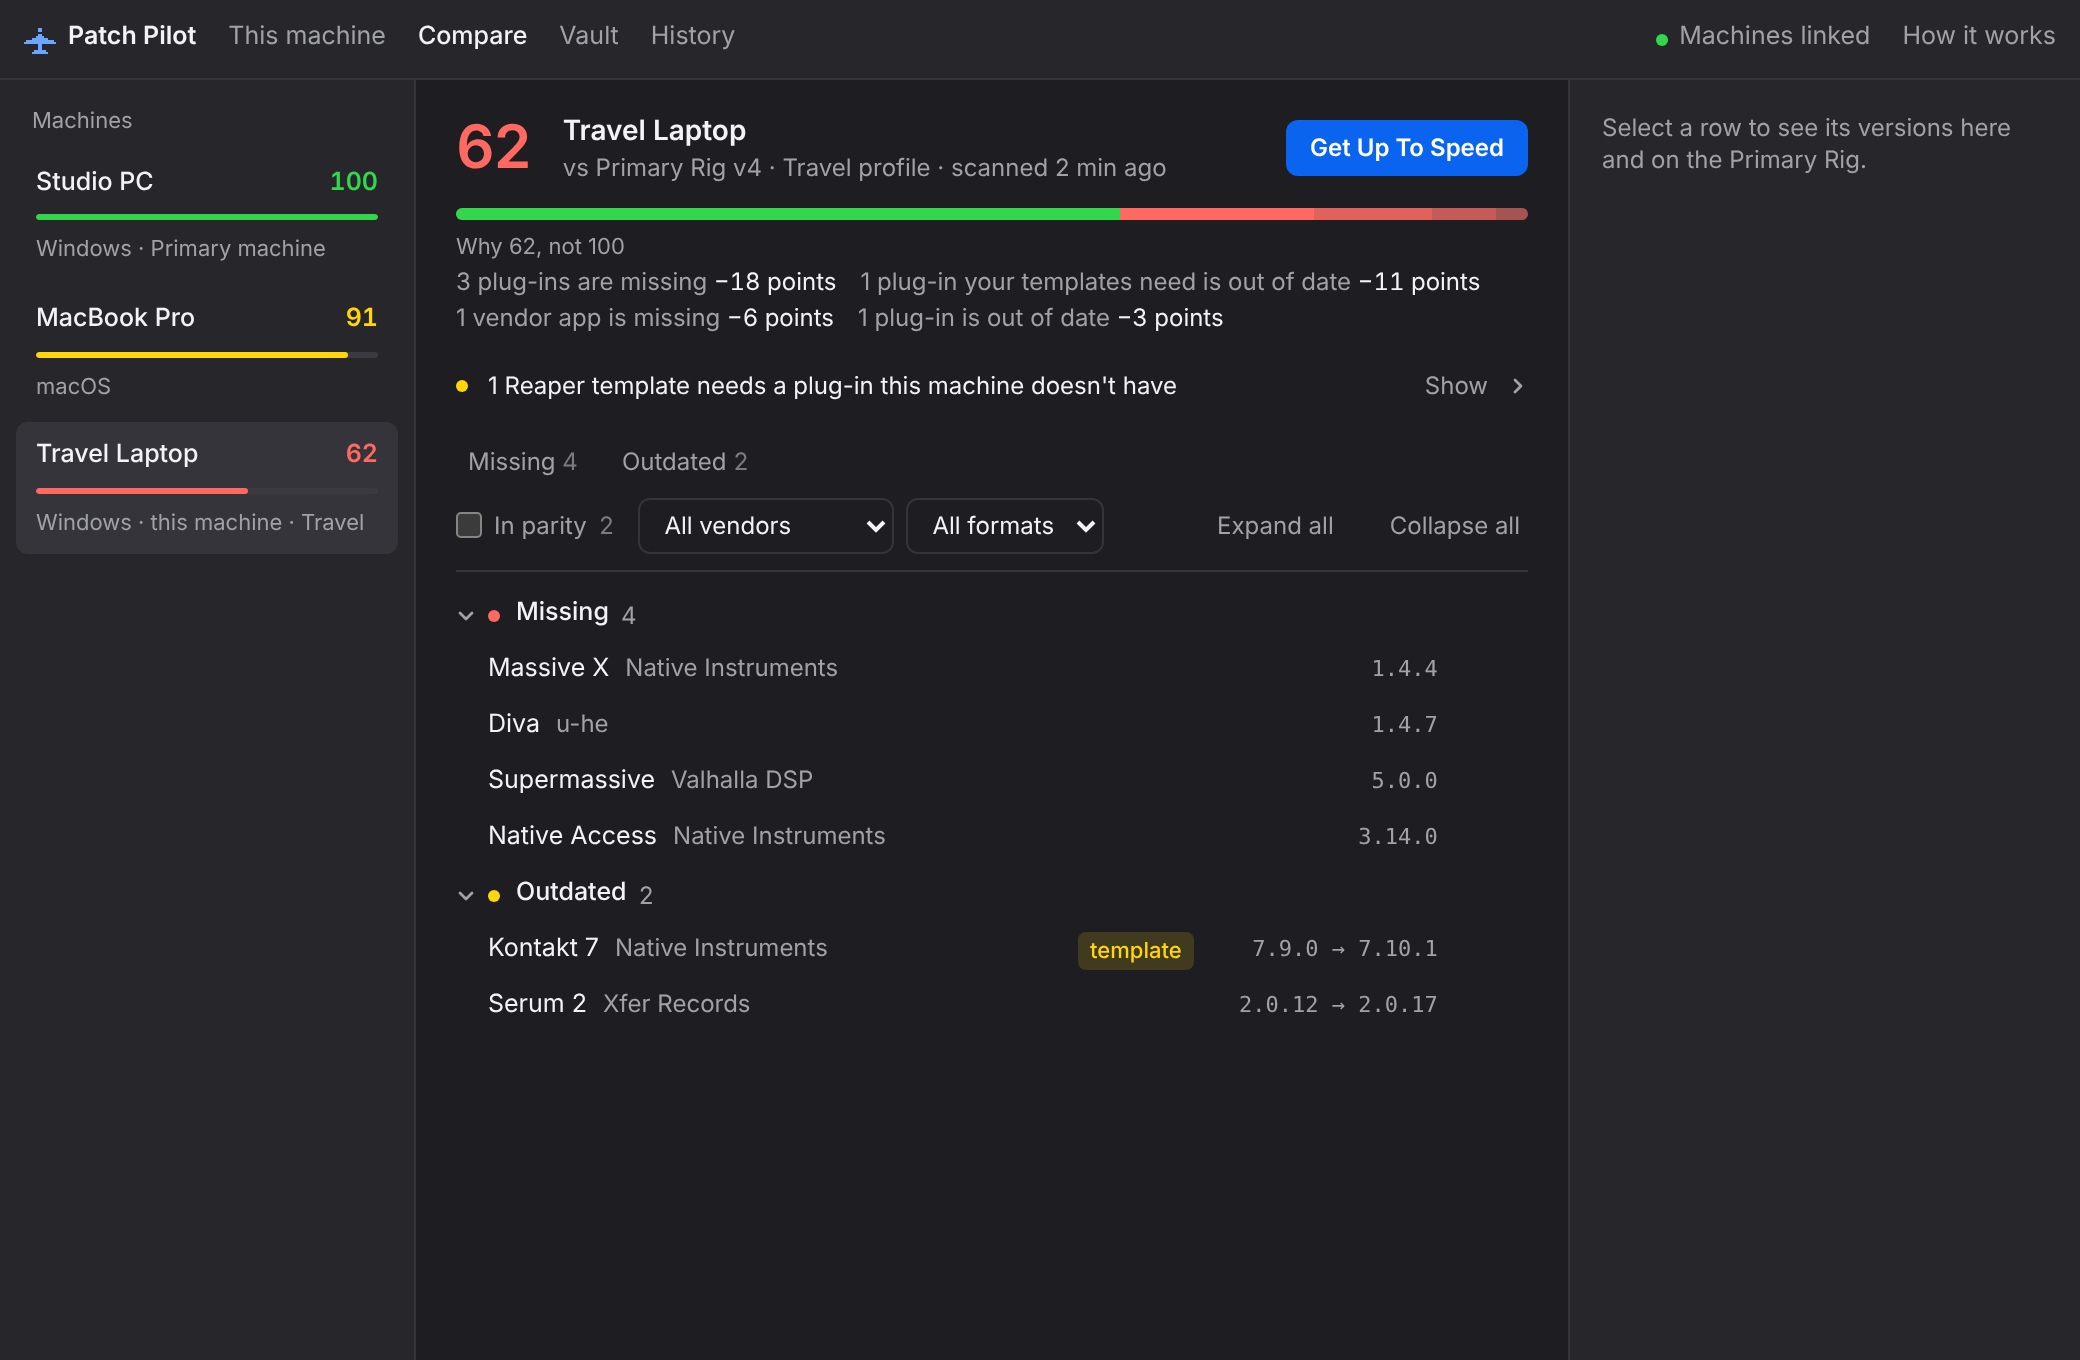
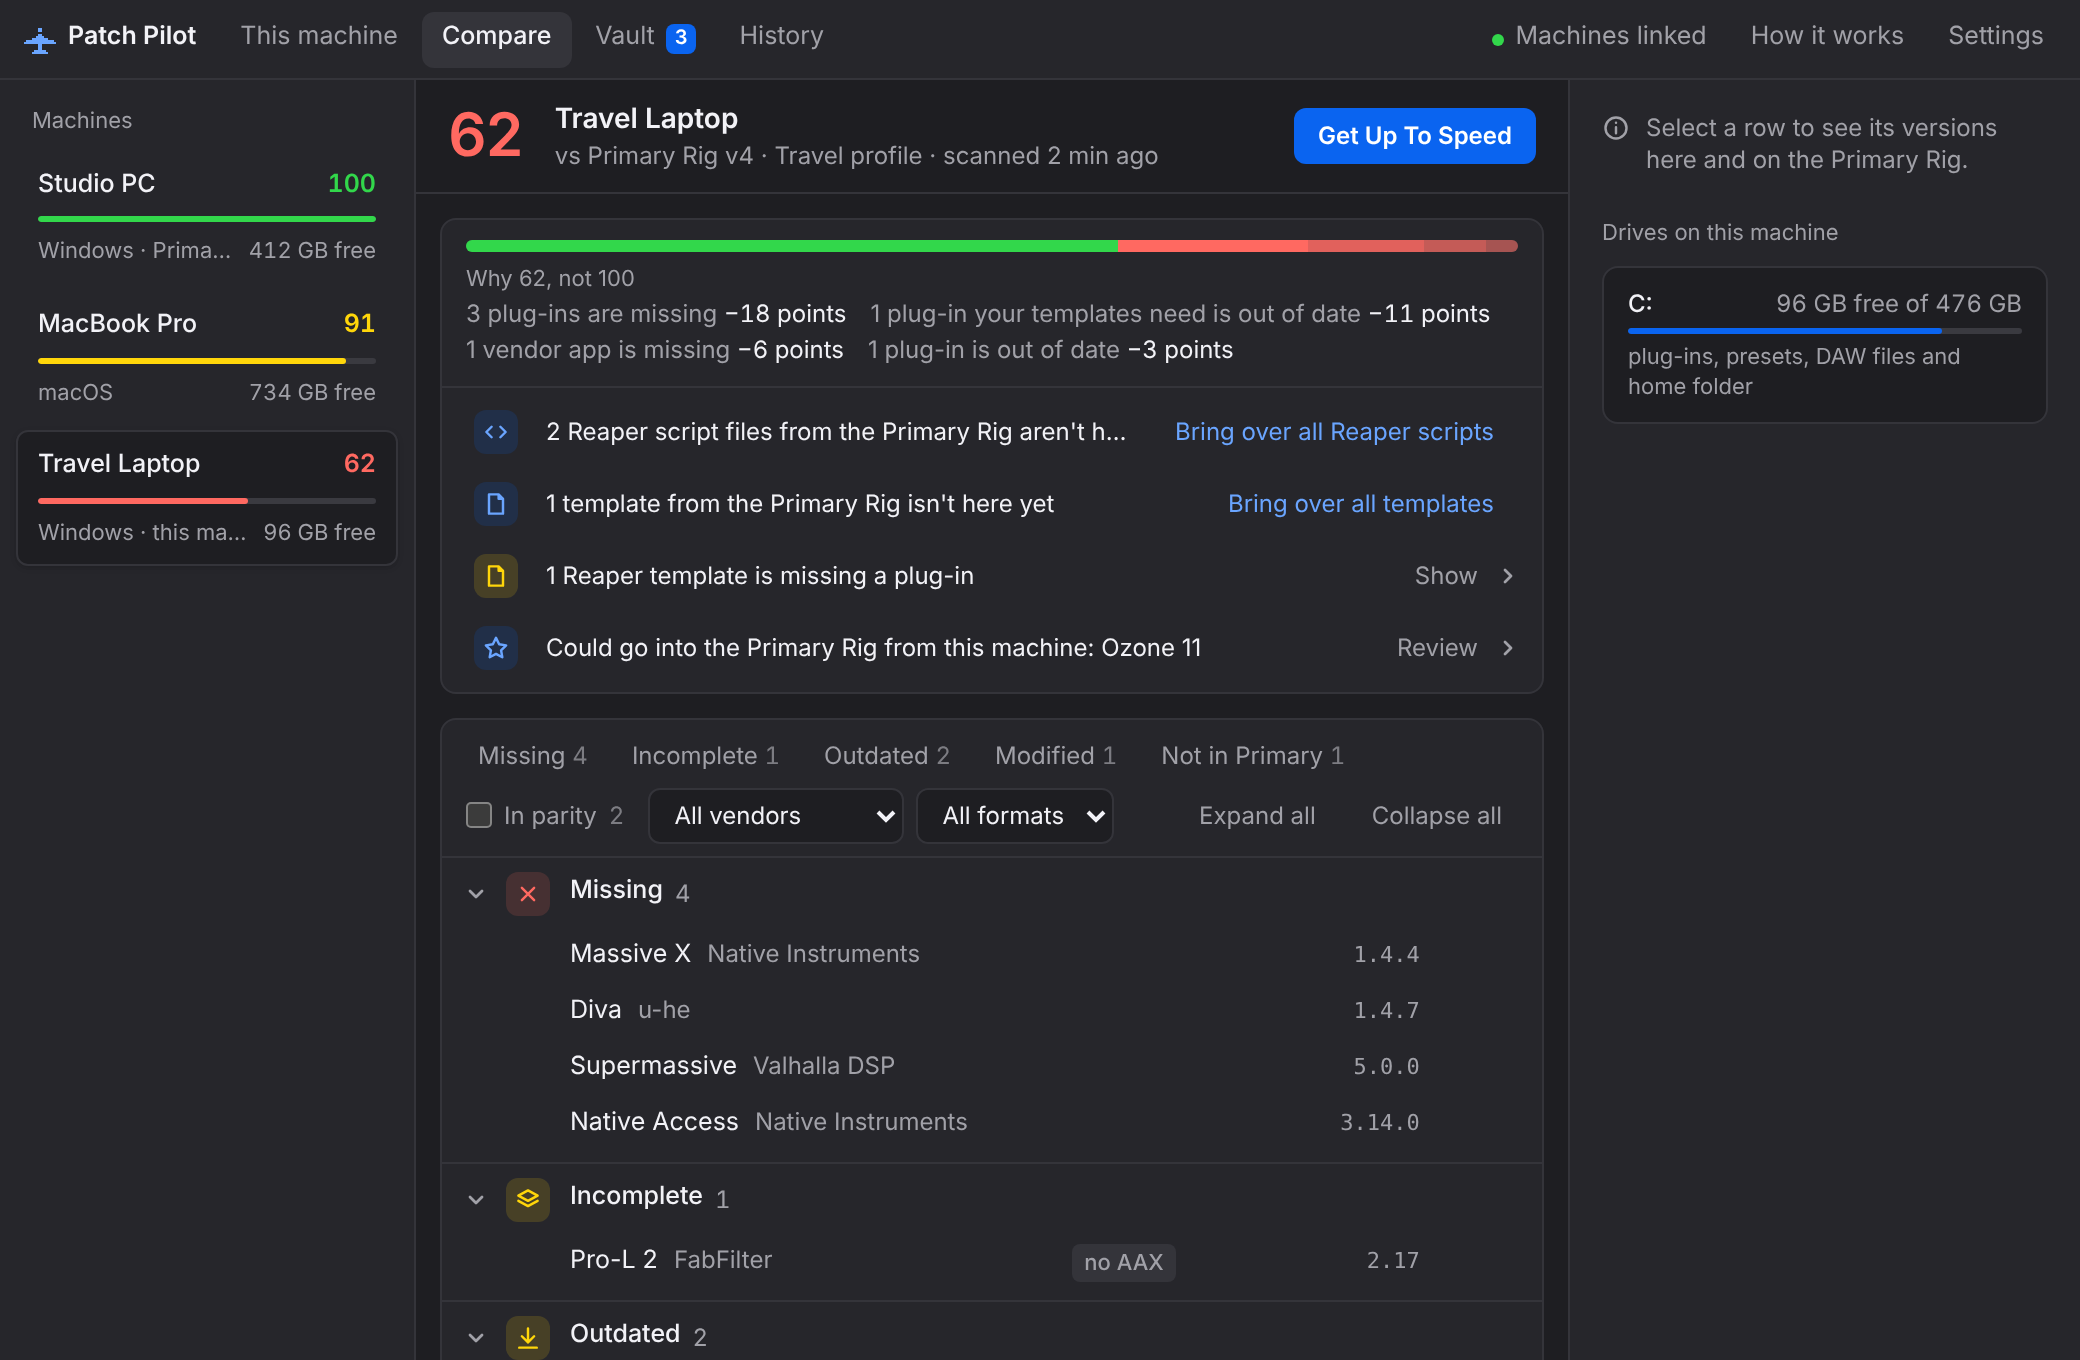
Release 0.4.50: tray, top bar, dialogs and first run restyled; README refresh (#201)
README: new dark screenshots of the restyled app, home network sync,
Reaper extensions and startup action, drive space and Settings.

Claude-Session: https://claude.ai/code/session_013Se1kejFbea8Pob42UETS8

diff --git a/README.md b/README.md
@@ -51,7 +51,7 @@ You know the moment: you open a project on the laptop and half the chain is red 
 Patch Pilot moves two kinds of things between your machines, in two different ways. Plug-ins, apps and sample libraries are never uploaded anywhere.
 
 - **What's installed (scan results).** Linked machines share the list of what each one has through a small relay. It's end-to-end encrypted, so nobody else can read it, not even us. There are no accounts.
-- **Your own files.** Templates, scripts, presets and settings travel through a cloud folder you already use (Dropbox, OneDrive, Google Drive, iCloud Drive or any folder you pick). If you'd rather, you can use a private GitHub repo of your own instead, under **Use GitHub…** on This machine's Sync & backup line; every change is kept in the repo's history.
+- **Your own files.** Templates, scripts, presets and settings travel through a cloud folder you already use (Dropbox, OneDrive, Google Drive, iCloud Drive or any folder you pick). If you'd rather not use a cloud at all, linked machines on the same home network can copy them straight to each other, encrypted. Or use a private GitHub repo of your own, where every change is kept in the repo's history. You choose under This machine's Sync & backup line.
 
 Syncing files is careful: a file you delete on one machine stays on the others, an edit made on two machines asks you which copy to keep, and settings only change while Reaper or Live is closed. Under **Choose what syncs** you can keep any kind of file or setting to one machine. The full list is in [docs/what-syncs.md](docs/what-syncs.md).
 
@@ -62,6 +62,8 @@ Syncing files is careful: a file you delete on one machine stays on the others, 
 - **Get Up To Speed and Set up** — a step-by-step checklist to bring a machine back in line, or to set up a new one from scratch, ending with a setup report you can save. Each step says whether something is not installed or needs an update, with both versions.
 - **Drift and update alerts** — a quiet notification when a machine falls behind, or when a newer version of a plug-in is on another machine or available from its maker.
 - **Template readiness** — tells you which Reaper templates, FX chains and Ableton sets or racks won't open fully on a machine, because a plug-in they use is missing.
+- **Reaper extensions and startup action** — checks SWS, ReaPack, js_ReaScriptAPI, ReaImGui and the others on every machine. It says when one is missing (and which of your scripts need it), blocked by macOS, in the wrong folder, the wrong build for that computer or installed twice, and most of these are fixed in one click. If SWS runs an action every time Reaper opens on your Primary Rig, every machine can run the same one.
+- **Drive space** — how much room is left on every drive of every machine, in Compare, the tray and This machine, with a warning when one that holds your plug-ins or presets runs low. Patch Pilot checks there's room before it copies anything.
 - **Keep files in sync** — Reaper templates, FX chains, scripts (with every file they need, including ReaPack packages), themes, shortcuts, menus and mouse modifiers; Ableton Live templates, presets, racks, Max for Live devices, Collections, Places and Options.txt; and plug-in presets from Serum, FabFilter, Valhalla, u-he, Soundtoys and many more. Renames follow too. Reaper shortcuts from a PC are adjusted to work on a Mac.
 - **Bring over** — copy another machine's files onto this one by hand, one file, a whole folder or every template at once.
 - **Backup** — every template, script, setting and preset backed up to your cloud folder after each change, with earlier versions kept. A new machine can start from another machine's backup.
@@ -71,7 +73,7 @@ Syncing files is careful: a file you delete on one machine stays on the others, 
 - **History and undo** — a restore point before every change Patch Pilot makes to a file, so anything can be undone.
 - **Rig Report** — share a list of your plug-ins and score as a web page or text, for forums or collaborators. It never includes file paths or licence details.
 - **Always on, barely there** — opens when your computer starts, waits in the tray or menu bar, and rescans by itself when you add or update a plug-in. It uses next to no CPU while it waits.
-- **Light and dark** — follows your system setting.
+- **Settings in one place** — what syncs on this machine, light or dark (or follow the system), text size, starting with your computer, which alerts you get, and the items you've hidden.
 
 ## What Patch Pilot is not
 

diff --git a/app/CHANGELOG.md b/app/CHANGELOG.md
@@ -4,6 +4,13 @@ What changed in each version of the Patch Pilot app. The section for a version
 becomes its release notes, which the app shows when it offers that update
 (see `docs/releasing.md`). Write for users, not developers.
 
+## 0.4.50 - 2026-10-29
+
+### Changed
+
+- The tray popover, the top bar, the dialogs and the first run look like This machine now. In the tray each machine has a small icon in its score's colour, and what a machine needs is listed with the same icons as Compare. The open tab at the top sits on a raised pill. Errors, update offers and "what just happened" messages show as one line with an icon under the top bar. Link your machines and Rig Report have icons beside their titles, and the first scan lists its steps with an icon each.
+- Compare says "1 template from the Primary Rig isn't here yet" instead of "aren't".
+
 ## 0.4.49 - 2026-10-29
 
 ### Changed
